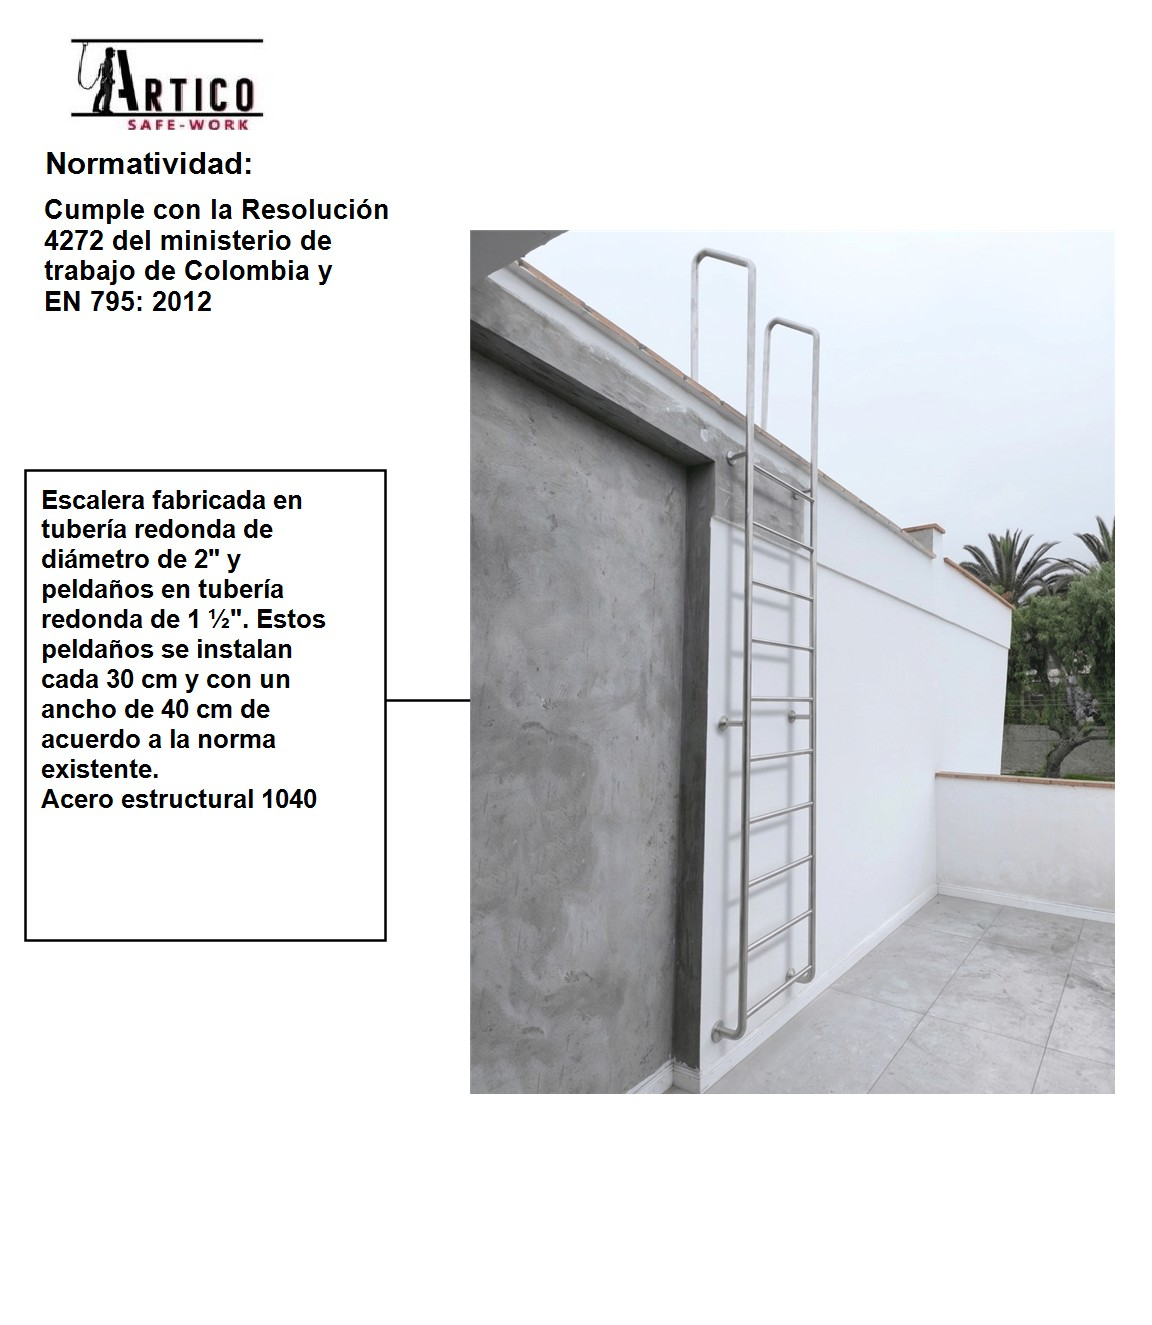
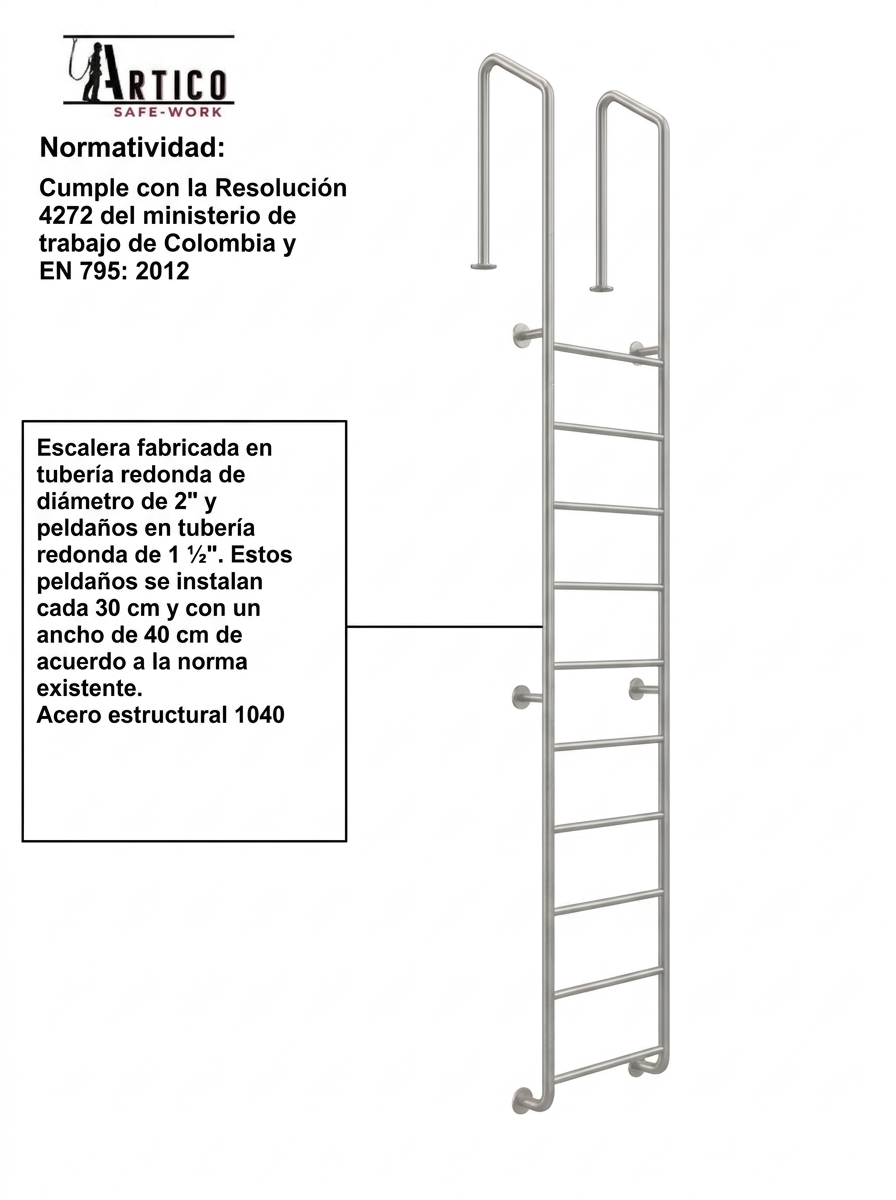
feat(cotizacion): actualizar lamina tecnica de escalera tipo gato sin fondo y mejorar deteccion de items

diff --git a/src/lib/cotizacionPrint.js b/src/lib/cotizacionPrint.js
@@ -8,8 +8,8 @@ import { getStaticMapDimensions, buildStaticMapLabelData } from "./maps";
 import { hasVerticalLifeLineService, hasCatLadderService } from "./cotizaciones";
 import { getTextosDocumento, lineasDeTexto } from "./cotizacionTextos";
 import { corregirOrtografiaLocal } from "./correctorTexto";
-import articoLineaVidaVertical from "../assets/artico-linea-vida-vertical.jpg";
-import articoEscaleraGato from "../assets/artico-escalera-gato.jpg";
+import articoLineaVidaVertical from "../assets/artico-linea-vida-vertical.jpg?inline";
+import articoEscaleraGato from "../assets/artico-escalera-gato.jpg?inline";
 import { IMG_SOPORTE, IMG_TENSOR, IMG_EMPALMES, IMG_CABLE } from "../assets/componentesLineasVida";
 
 export function buildCotizacionPrintHtml(c, { firmaImg = "", sello = null } = {}){
@@ -20,10 +20,10 @@ export function buildCotizacionPrintHtml(c, { firmaImg = "", sello = null } = {}
   // 1) Escalera fija con línea de vida vertical (cable, absorbedor, tensor)
   // 2) Escalera tipo gato sola (sin línea de vida, sin canastilla)
   const showVerticalLifelineAppendix = propuestas.some((propuesta)=>hasVerticalLifeLineService(propuesta?.quote || propuesta))
-    || hasVerticalLifeLineService({ alcance: textos?.tituloPortada || c?.alcance, requerimientoCliente: textoInicial, items: c?.items, titulo: c?.titulo });
+    || hasVerticalLifeLineService({ alcance: c?.alcance, requerimientoCliente: textoInicial, items: c?.items, titulo: c?.titulo });
 
   const showCatLadderAppendix = propuestas.some((propuesta)=>hasCatLadderService(propuesta?.quote || propuesta))
-    || hasCatLadderService({ alcance: textos?.tituloPortada || c?.alcance, requerimientoCliente: textoInicial, items: c?.items, titulo: c?.titulo });
+    || hasCatLadderService({ alcance: c?.alcance, requerimientoCliente: textoInicial, items: c?.items, titulo: c?.titulo });
   // La lamina tecnica de componentes se incluye si la cotizacion o alguna propuesta
   // es de linea de vida o si se cotizan postes/anclajes de linea de vida (ej. Anclaje Artico).
   const hasLifelineOrAnchorPost = (texto) => {
@@ -1116,6 +1116,7 @@ export function buildCotizacionPrintHtml(c, { firmaImg = "", sello = null } = {}
   return `<!doctype html>
   <html>
   <head>
+    <base href="${typeof window !== 'undefined' && window.location ? window.location.origin : ''}/" />
     <meta charset="utf-8" />
     <meta name="viewport" content="width=device-width, initial-scale=1.0" />
     <link rel="preconnect" href="https://fonts.googleapis.com" />

diff --git a/src/lib/cotizaciones.js b/src/lib/cotizaciones.js
@@ -292,10 +292,14 @@ export function hasVerticalLifeLineService(c={}){
         || (t.includes("ESCALERA") && (t.includes("LINEA DE VIDA") || t.includes("LÍNEA DE VIDA") || t.includes("GUAYA") || t.includes("CABLE")));
   };
 
+  const items = Array.isArray(c?.items) ? c.items : normalizeQuoteItems(c);
+  if(items.length > 0) {
+    return items.some(it => nombraLineaVidaVertical(it?.desc || it?.descripcion || it?.nombre));
+  }
+
   if(nombraLineaVidaVertical(c.alcance) || nombraLineaVidaVertical(c.requerimientoCliente) || nombraLineaVidaVertical(c.titulo)) return true;
 
-  const items = Array.isArray(c?.items) ? c.items : normalizeQuoteItems(c);
-  return items.some(it => nombraLineaVidaVertical(it?.desc || it?.descripcion || it?.nombre));
+  return false;
 }
 
 export function hasCatLadderService(c={}){
@@ -305,14 +309,18 @@ export function hasCatLadderService(c={}){
   const nombraEscaleraSola = (texto)=>{
     const t = String(texto || "").toUpperCase();
     const tieneEscalera = t.includes("ESCALERA") || t.includes("GATO") || t.includes("MARINERA");
-    const tieneLineaVida = t.includes("LINEA DE VIDA") || t.includes("LÍNEA DE VIDA");
+    const tieneLineaVida = t.includes("LINEA DE VIDA") || t.includes("LÍNEA DE VIDA") || t.includes("VERTICAL");
     return tieneEscalera && !tieneLineaVida;
   };
 
+  const items = Array.isArray(c?.items) ? c.items : normalizeQuoteItems(c);
+  if(items.length > 0) {
+    return items.some(it => nombraEscaleraSola(it?.desc || it?.descripcion || it?.nombre));
+  }
+
   if(nombraEscaleraSola(c.alcance) || nombraEscaleraSola(c.requerimientoCliente) || nombraEscaleraSola(c.titulo)) return true;
 
-  const items = Array.isArray(c?.items) ? c.items : normalizeQuoteItems(c);
-  return items.some(it => nombraEscaleraSola(it?.desc || it?.descripcion || it?.nombre));
+  return false;
 }
 
 export function getQuoteProposalPhotos(baseQuote = {}, propuesta = {}, activeProposalId = null){

diff --git a/src/screens/Cotizacion/DocumentoEnVivo.jsx b/src/screens/Cotizacion/DocumentoEnVivo.jsx
@@ -103,6 +103,7 @@ export default function DocumentoEnVivo({
   const htmlAjustado = useMemo(() => {
     if (!html) return "";
     const cssInyectado = `
+      <base href="${typeof window !== 'undefined' && window.location ? window.location.origin : ''}/" />
       <meta name="viewport" content="width=device-width, initial-scale=1.0, maximum-scale=5.0, user-scalable=yes" />
       <style>
         html {
